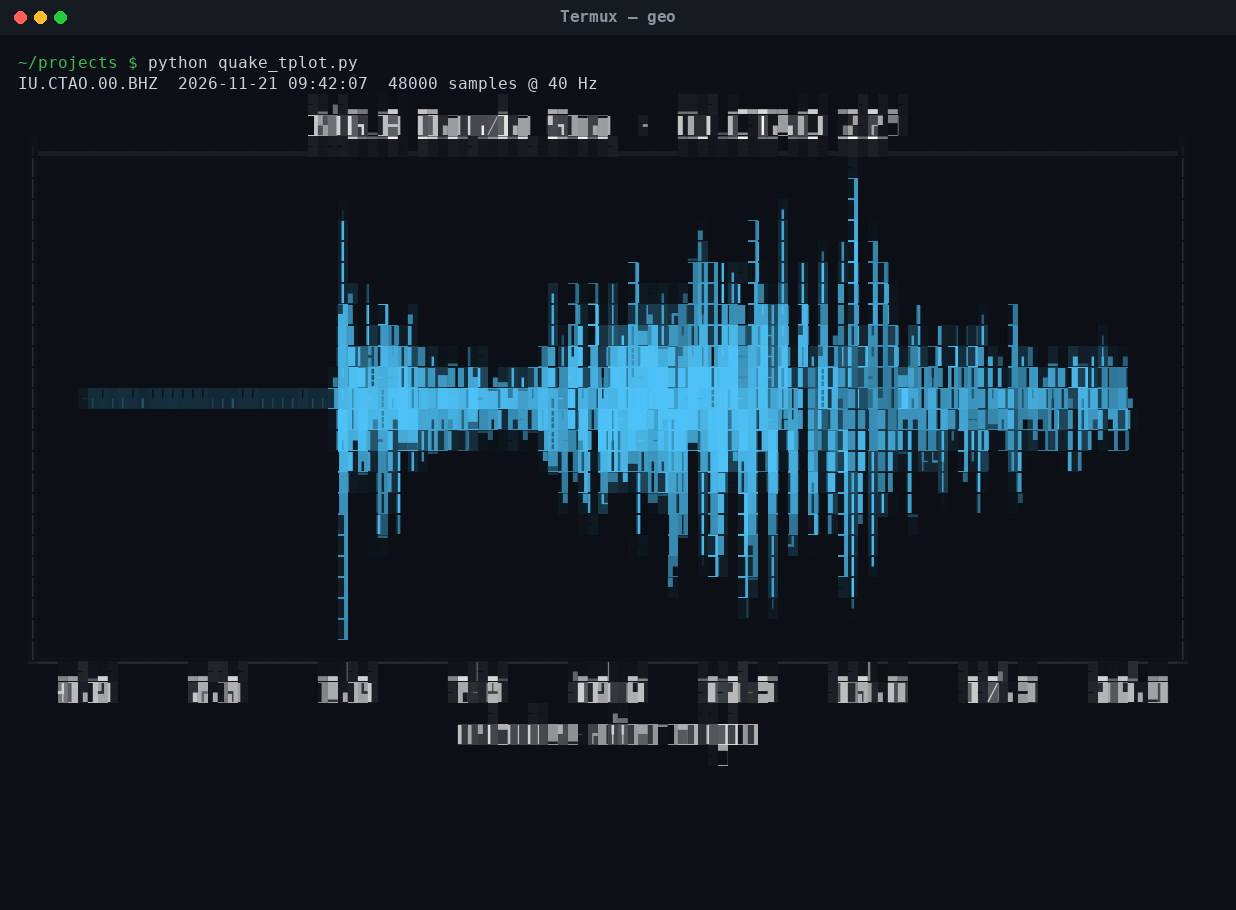
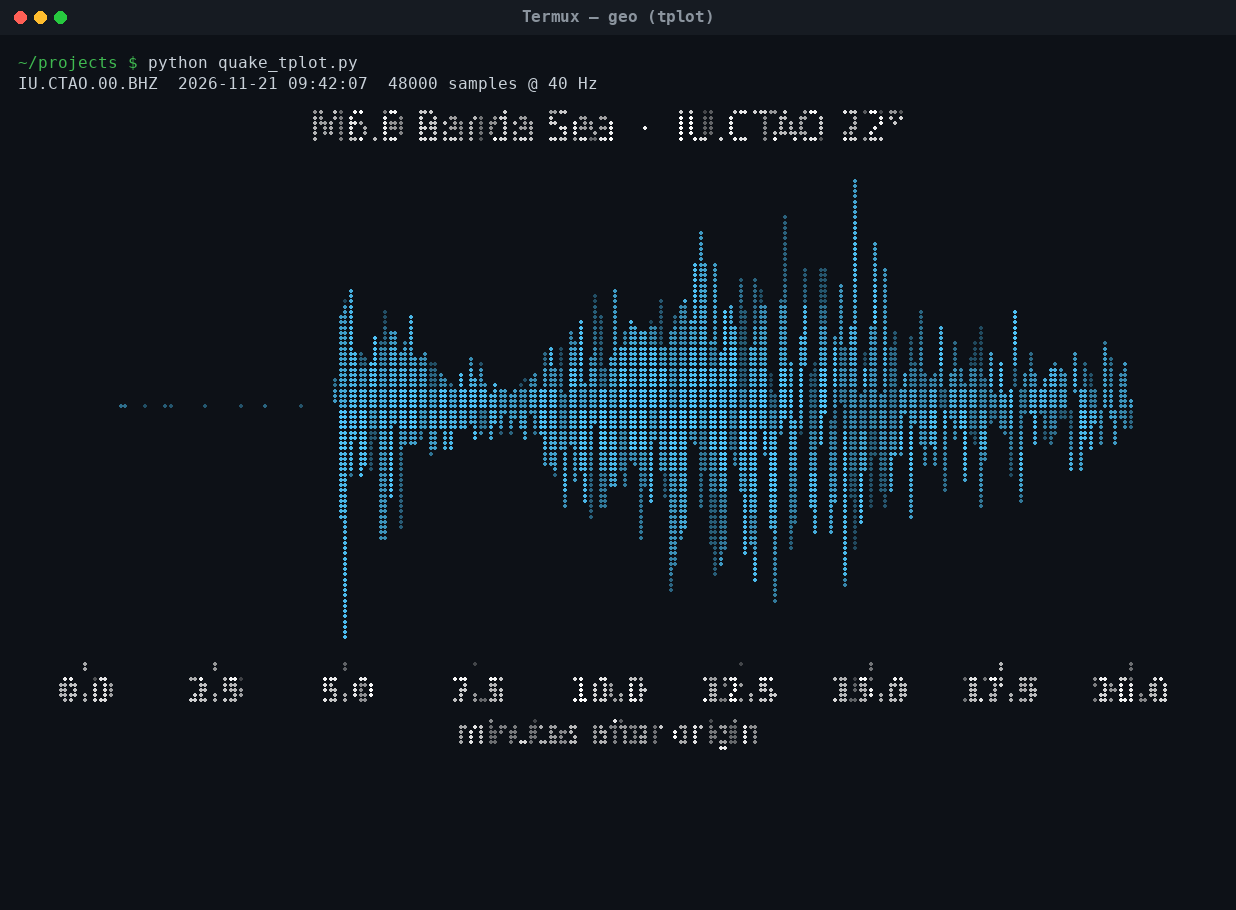
Sharper terminal plots: tplot braille default, new tplot/plotext images
- tplot now uses chafa braille dots, foreground only, at work level 9:
  sharp lines instead of filled blocks (old look via TPLOT_SYMBOLS/
  TPLOT_ARGS)
- docs/media/tplot.png regenerated; new docs/media/plotext.png shows the
  same seismogram drawn natively by plotext (docs/tools/quake_plotext.py)
- term_render draws braille dots itself (DejaVu Sans Mono lacks them);
  term_capture passes TPLOT_* through and has a plotext session

diff --git a/ubuntu/tplot.py b/ubuntu/tplot.py
@@ -1,8 +1,22 @@
-"""Terminal matplotlib: `import tplot` makes plt.show() draw in the terminal via chafa."""
+"""Terminal matplotlib: `import tplot` makes plt.show() draw in the terminal via chafa.
+
+    import tplot, matplotlib.pyplot as plt
+    plt.plot(x, y); plt.show()               # fills the terminal
+    plt.show(size="100x30")                  # columns x rows
+
+Default look: braille dots only, foreground colour only (braille = 2x4 dots per
+character, so lines stay sharp; Termux shows braille via Android's font fallback).
+Override with environment variables, e.g. the older filled-block look:
+    export TPLOT_SYMBOLS=block+border+space TPLOT_ARGS=" "
+"""
 import os, shutil, subprocess, tempfile
 import matplotlib
 matplotlib.use("Agg")
 import matplotlib.pyplot as plt
+
+SYMBOLS = os.environ.get("TPLOT_SYMBOLS", "braille+space")
+EXTRA = os.environ.get("TPLOT_ARGS", "--fg-only").split()   # extra chafa options
+
 
 def tshow(fig=None, size=None, *a, **k):
     if size is None:
@@ -10,8 +24,8 @@ def tshow(fig=None, size=None, *a, **k):
         size = f"{c}x{max(r - 2, 10)}"
     fd, f = tempfile.mkstemp(suffix=".png"); os.close(fd)
     try:
-        (fig or plt.gcf()).savefig(f, dpi=120, bbox_inches="tight")
-        subprocess.run(["chafa", "--symbols", "block+border+space", "-s", size, f])  # glyphs every terminal font has
+        (fig or plt.gcf()).savefig(f, dpi=150, bbox_inches="tight")
+        subprocess.run(["chafa", "--symbols", SYMBOLS, "--work", "9", *EXTRA, "-s", size, f])
     finally:
         os.remove(f)
     plt.close(fig or plt.gcf())

diff --git a/docs/tools/term_render.py b/docs/tools/term_render.py
@@ -34,6 +34,21 @@ def color(c, default):
         return default
 
 
+BRAILLE_DOTS = [(0x01, 0, 0), (0x02, 0, 1), (0x04, 0, 2), (0x40, 0, 3),
+                (0x08, 1, 0), (0x10, 1, 1), (0x20, 1, 2), (0x80, 1, 3)]
+
+
+def draw_braille(d, ch, px, py, cw, chh, fill):
+    """DejaVu Sans Mono has no braille glyphs: draw the 2x4 dots like a terminal font would."""
+    bits = ord(ch) - 0x2800
+    r = max(1.2, cw * 0.16)
+    for bit, cx, cy in BRAILLE_DOTS:
+        if bits & bit:
+            x = px + cw * (0.3 + 0.4 * cx)
+            y = py + chh * (0.14 + 0.24 * cy)
+            d.ellipse([x - r, y - r, x + r, y + r], fill=fill)
+
+
 def render(frame, cols, rows, title, fonts):
     reg, bold = fonts
     cw = round(reg.getlength("M"))
@@ -57,7 +72,9 @@ def render(frame, cols, rows, title, fonts):
             px, py = pad + x * cw, bar + pad + y * ch
             if b != BG:
                 d.rectangle([px, py, px + cw - 1, py + ch - 1], fill=b)
-            if txt.strip():
+            if txt and 0x2800 < ord(txt[0]) <= 0x28FF:
+                draw_braille(d, txt[0], px, py, cw, ch, f)
+            elif txt.strip():
                 d.text((px, py + (ch - SIZE) / 2 - 1), txt, font=bold if isbold else reg, fill=f)
     return img
 

diff --git a/docs/tools/term_capture.py b/docs/tools/term_capture.py
@@ -42,11 +42,16 @@ SESSIONS = {
         (b"?", 0.8, 3200),
         (b"x", 0.3, None), (b"q", 0.5, None),
     ]),
+    "plotext": (["bash", "-c",
+                 "printf '\\033[32m~/projects $\\033[0m python quake_plotext.py\\n'; "
+                 f"proot-distro login ubuntu --bind {REPO}:/opt/seisbox -- "
+                 "env TERM=xterm-256color PYTHONWARNINGS=ignore /root/geo/bin/python "
+                 "/opt/seisbox/docs/tools/quake_plotext.py"], 120, 40, [(b"", 45.0, 1000)]),
     "welcome": (["bash", "-c", f"cat {REPO}/termux/welcome.txt"], 50, 36, [(b"", 1.0, 1000)]),
     "tplot": (["bash", "-c",
                "printf '\\033[32m~/projects $\\033[0m python quake_tplot.py\\n'; "
                f"proot-distro login ubuntu --bind {REPO}:/opt/seisbox -- "
-               "env TERM=xterm-256color PYTHONWARNINGS=ignore /root/geo/bin/python "
+               "env TERM=xterm-256color PYTHONWARNINGS=ignore ${TPLOT_SYMBOLS:+TPLOT_SYMBOLS=$TPLOT_SYMBOLS} ${TPLOT_ARGS:+TPLOT_ARGS=\"$TPLOT_ARGS\"} /root/geo/bin/python "
                "/opt/seisbox/docs/tools/quake_tplot.py"], 120, 40, [(b"", 45.0, 1000)]),
 }
 

diff --git a/docs/tools/quake_plotext.py b/docs/tools/quake_plotext.py
@@ -1,0 +1,20 @@
+"""Terminal line plot with plotext: the same seismogram as quake_tplot.py, drawn
+natively in the terminal (braille dots for the line, real characters for labels).
+"""
+import plotext as plt
+from obspy import UTCDateTime
+from obspy.clients.fdsn import Client
+
+t0 = UTCDateTime("2026-11-21T09:42:07")
+st = Client("IRIS").get_waveforms("IU", "CTAO", "00", "BHZ", t0, t0 + 20 * 60)
+st.detrend("demean").filter("bandpass", freqmin=0.02, freqmax=1.0)
+tr = st[0].decimate(4, no_filter=True)          # 10 Hz is plenty for a 120-column plot
+print(f"{tr.id}  {tr.stats.starttime.strftime('%Y-%m-%d %H:%M:%S')}  M6.8 Banda Sea, 22°")
+
+plt.plot((tr.times() / 60).tolist(), (tr.data / 1000).tolist(), marker="braille", color="cyan")
+plt.title("M6.8 Banda Sea  ·  IU.CTAO (22°)  ·  BHZ 0.02-1 Hz")
+plt.xlabel("minutes after origin")
+plt.ylabel("counts / 1000")
+plt.theme("dark")
+plt.plotsize(118, 34)
+plt.show()

diff --git a/README.md b/README.md
@@ -287,16 +287,22 @@ There are three ways to see plots:
 <p align="center"><img src="docs/media/tplot.png" width="620" alt="A real seismogram drawn inside the terminal with tplot"></p>
 
 1. **In the terminal (`tplot`)**: add `import tplot` at the top of a script. After that,
-   `plt.show()` renders the figure with `chafa` as colored characters. Use
-   `plt.show(size="80x25")` to choose the size. Try `python /sdcard/termux/projects/tplot_demo.py`.
-   Zoom out in Termux (pinch) for more detail.
+   `plt.show()` draws any matplotlib figure in the terminal with `chafa`, using braille dots
+   (2×4 per character, so lines stay sharp). Use `plt.show(size="120x35")` to choose the size,
+   and zoom out in Termux (pinch) for more detail. Try `python /sdcard/termux/projects/tplot_demo.py`.
+   If your font shows boxes instead of dots, switch to the older filled-block look:
+   `export TPLOT_SYMBOLS=block+border+space TPLOT_ARGS=" "`.
 2. **Real windows (`ubx`)**: open the Termux:X11 app once, then run `ubx` in Termux. Matplotlib
    uses TkAgg, and windows appear in Termux:X11 with zoom and pan. Switch back to Termux with
    the Android app switcher.
 3. **Files**: `plt.savefig("/sdcard/termux/projects/fig.png", dpi=200)` and open it in the gallery.
    PyGMT: `fig.savefig("/sdcard/.../map.png")`.
 
-`plotext` (5.3.2) is also installed for pure-text line plots.
+**`plotext`** (5.3.2, also installed) draws line plots natively in the terminal. The axes, ticks and
+labels are real characters, so text is sharper than with `tplot`, but it only does simple plot
+types. The same seismogram ([`docs/tools/quake_plotext.py`](docs/tools/quake_plotext.py)):
+
+<p align="center"><img src="docs/media/plotext.png" width="620" alt="The same seismogram drawn with plotext"></p>
 
 PyGMT and GMT 6.5 work fully inside `geo`. This map of the last 30 days of M4.5+ quakes is made on the
 phone by [`docs/tools/make_map.py`](docs/tools/make_map.py):
